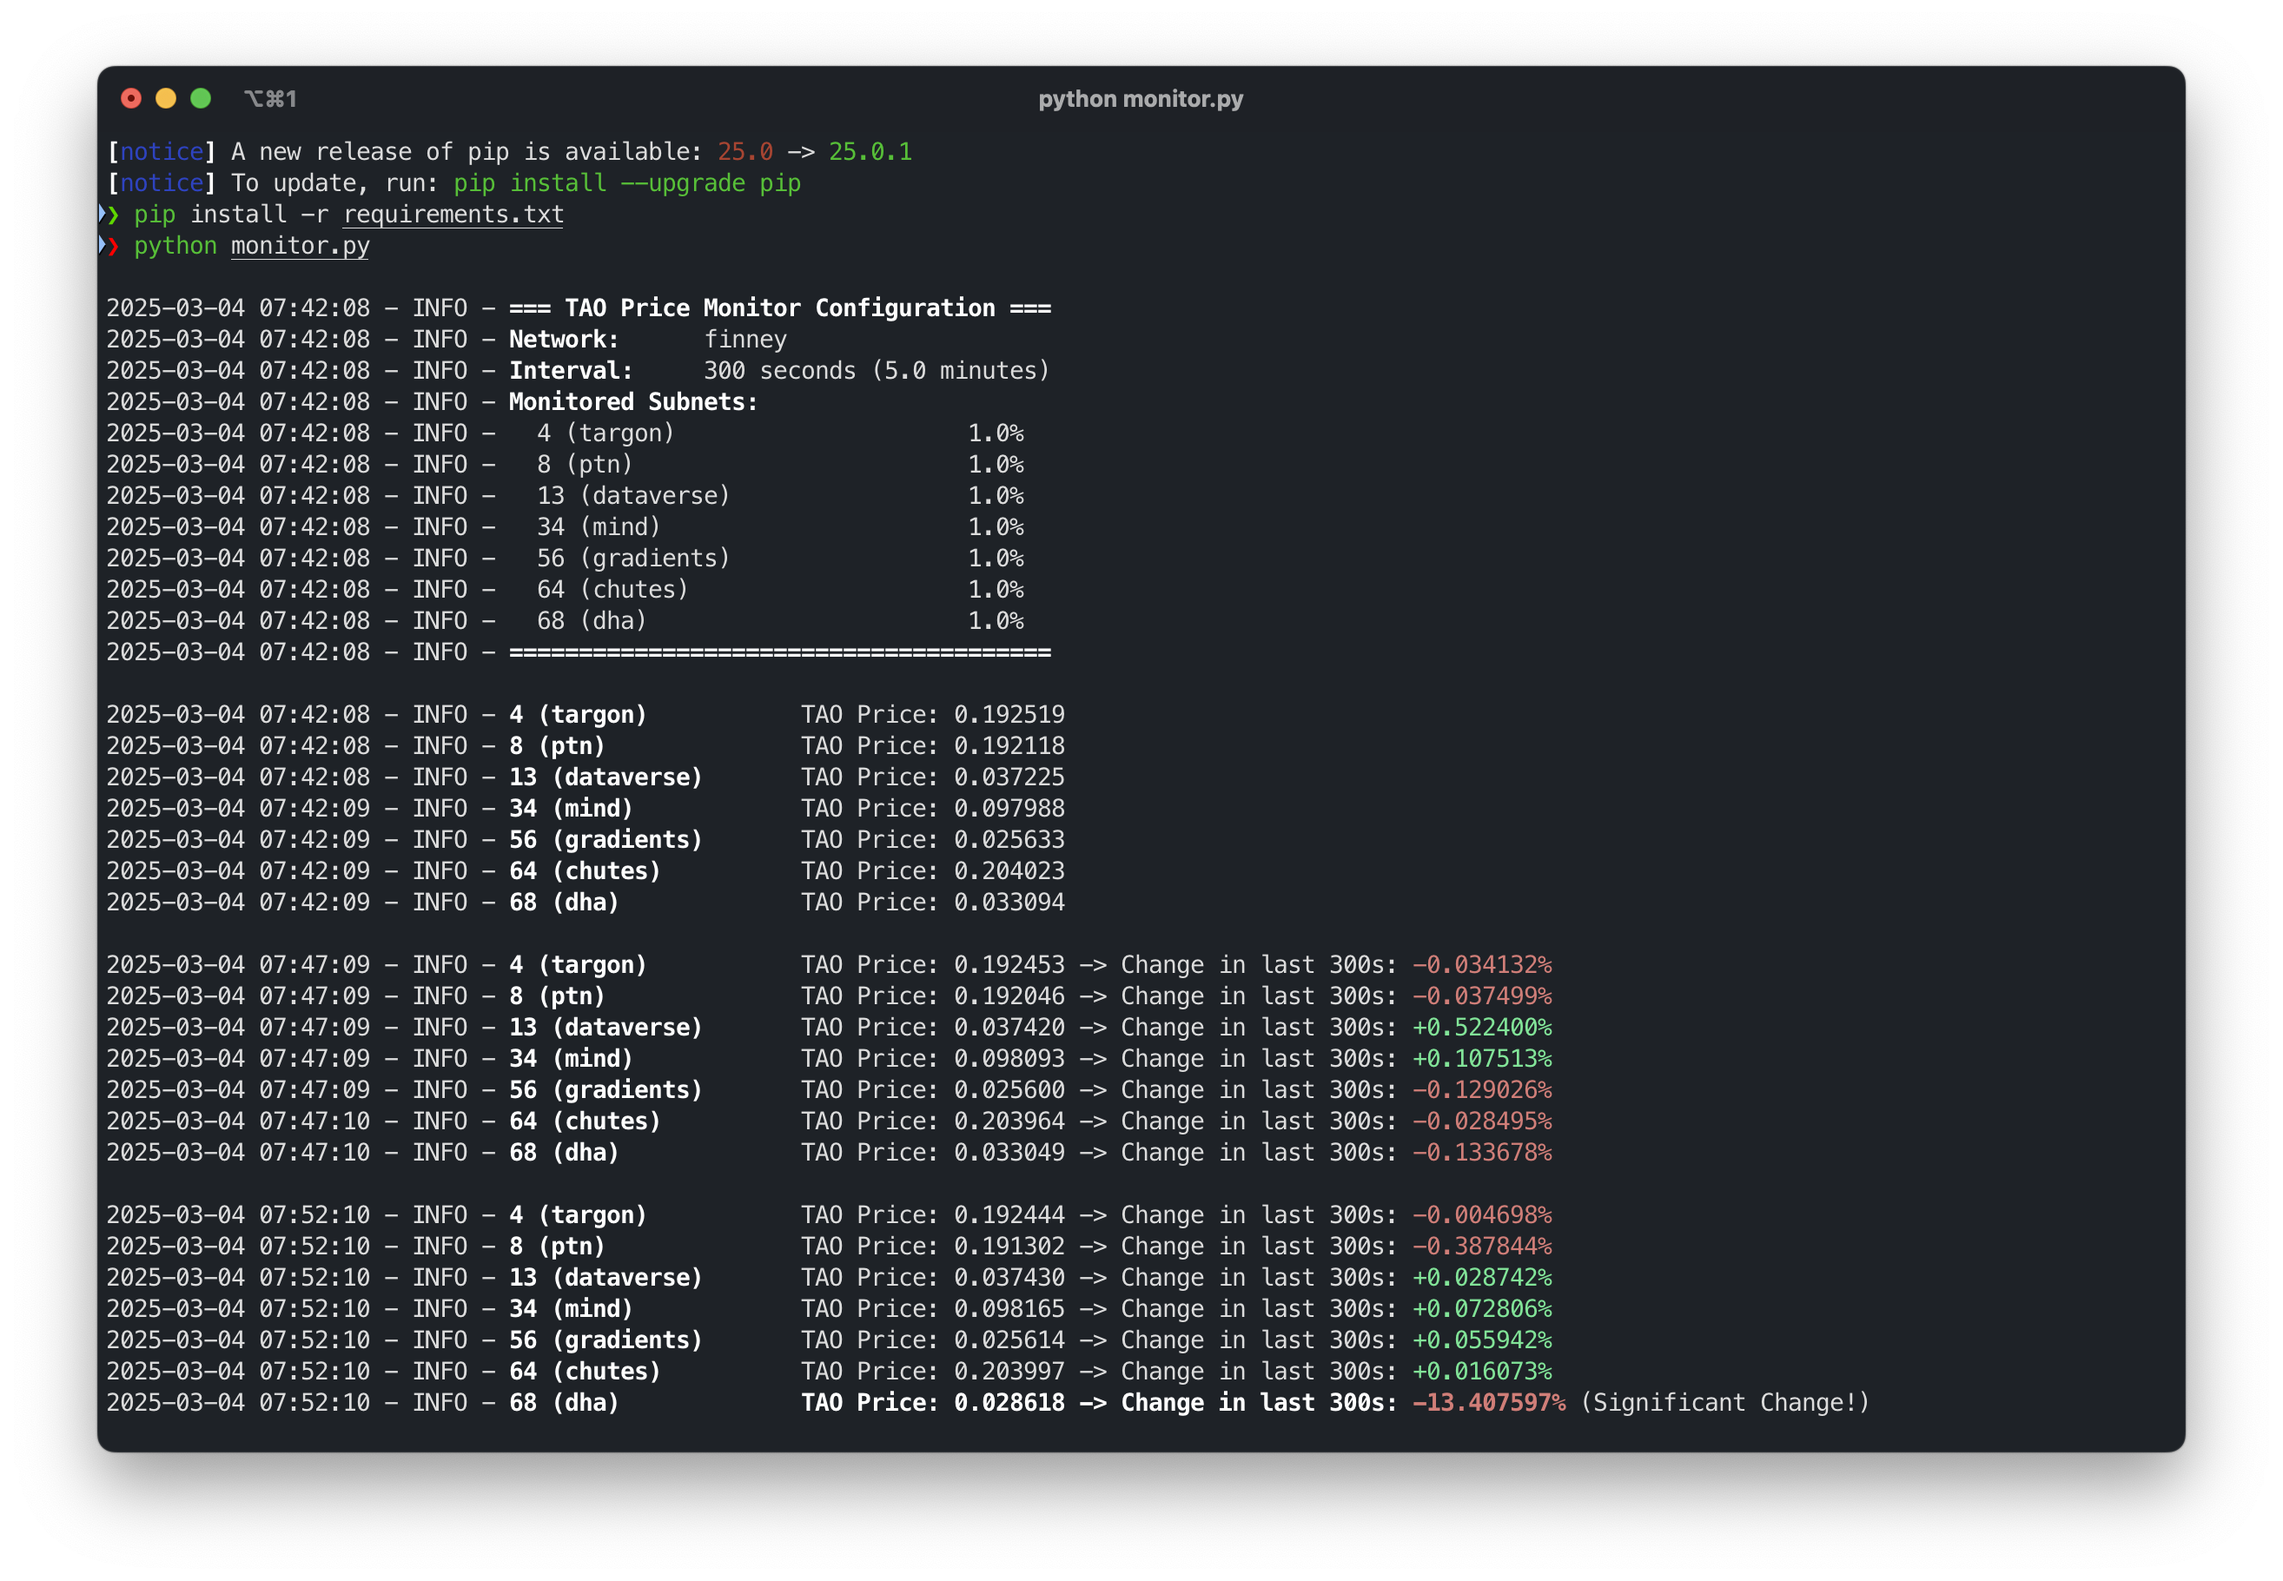
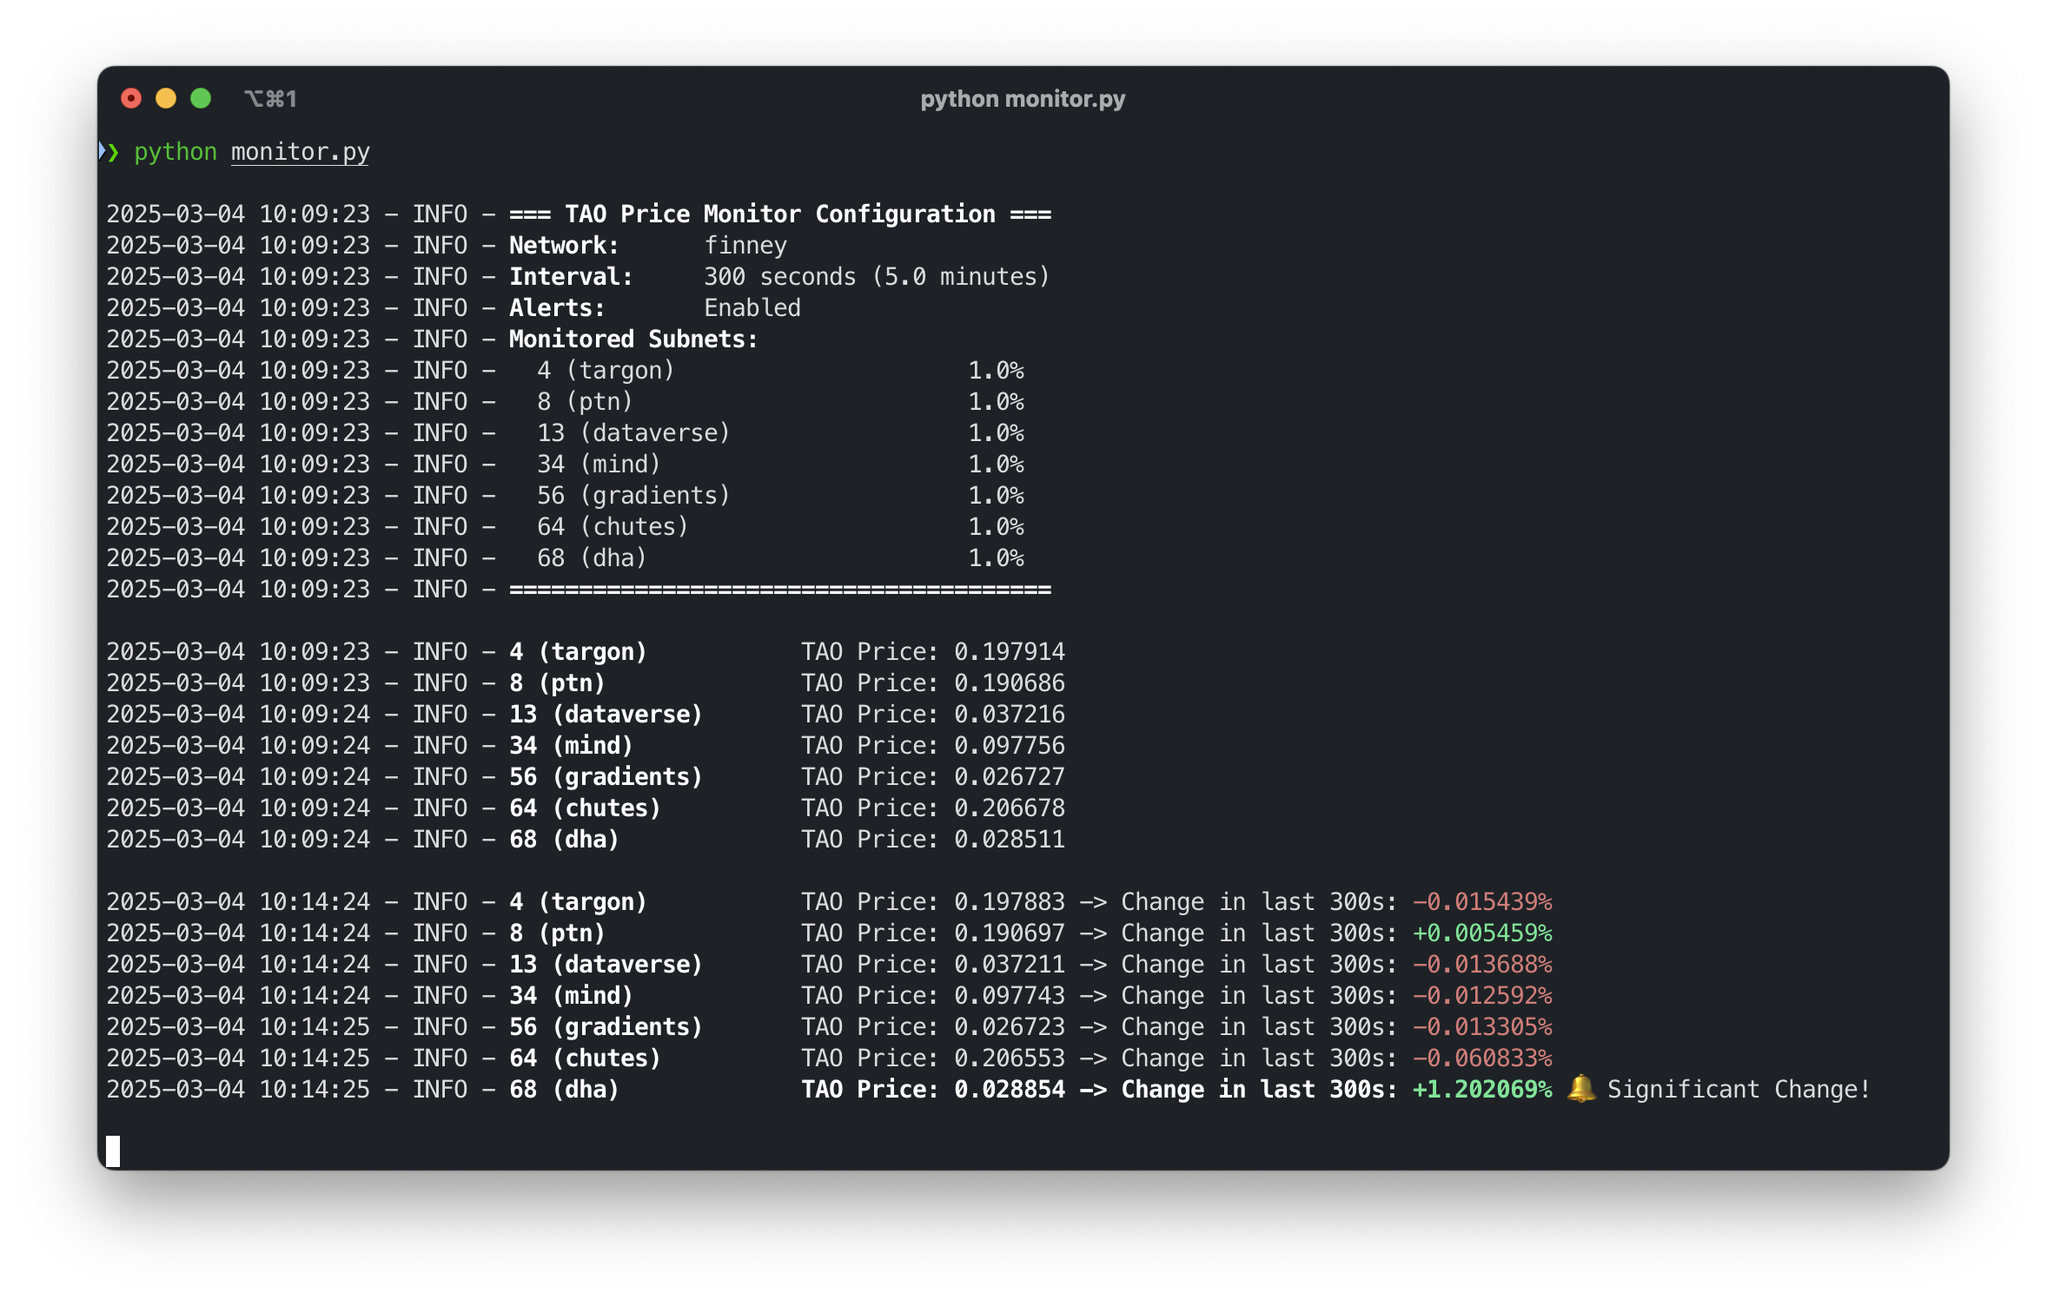
Reformats significant change alert

Changed region(s): [[0.031, 0.0307, 0.9605, 0.9532]]

diff --git a/monitor.py b/monitor.py
@@ -193,7 +193,7 @@ class PriceMonitor:
             else:
                 message += f" -> Change in last {self.config.interval}s: {change:+.6f}%"
             if important:
-                message += " (Significant Change!)"
+                message += " 🔔 Significant Change!"
 
         if important:
             logger.info(f"{BOLD}{subnet.display_name:<20} {message}{RESET}")
